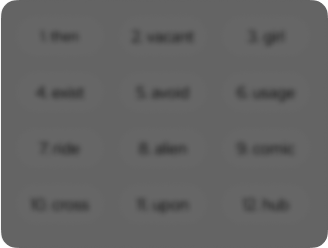
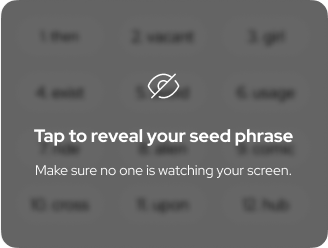
added seedphrase blue toggle to reveal seed phrase screen

Changed region(s): [[0.0915, 0.5081, 0.9146, 0.5927], [0.0915, 0.6492, 0.8841, 0.7339], [0.4268, 0.2823, 0.5488, 0.3952]]

diff --git a/src/screens/onboarding/RevealSeedPhrase.js b/src/screens/onboarding/RevealSeedPhrase.js
@@ -1,6 +1,7 @@
 /* eslint-disable react-native/no-inline-styles */
-import React from 'react';
-import { View } from 'react-native';
+import React, { useState } from 'react';
+import { Image, View, StyleSheet } from 'react-native';
+import { TouchableOpacity } from 'react-native-gesture-handler';
 import AppButton from '../../components/AppButton';
 import AppText from '../../components/AppText';
 import SeedPhraseWraper from '../../components/onboarding/SeedPhraseWraper';
@@ -8,6 +9,11 @@ import OnboardingProgress from '../../components/OnboardingProgress';
 import Screen from '../../components/Screen';
 
 export default function RevealSeedPhrase({ navigation }) {
+  const [visible, setVisible] = useState(false);
+
+  const toggleVisibility = () => {
+    setVisible(!visible);
+  };
   return (
     <Screen>
       <View style={{ flex: 1 }}>
@@ -23,7 +29,13 @@ export default function RevealSeedPhrase({ navigation }) {
       </View>
 
       <View style={{ flex: 2 }}>
-        <SeedPhraseWraper isInit={true} />
+        {visible ? (
+          <SeedPhraseWraper isInit={true} />
+        ) : (
+          <TouchableOpacity onPress={toggleVisibility}>
+            <Image source={require('../../../assets/seedphrase.png')} style={styles.image} />
+          </TouchableOpacity>
+        )}
       </View>
       <View style={{ flex: 1, flexDirection: 'column', justifyContent: 'flex-end', marginVertical: 10 }}>
         <AppButton title="Continue" onPress={() => navigation.navigate('confirmSeedPhrase')} />
@@ -31,3 +43,9 @@ export default function RevealSeedPhrase({ navigation }) {
     </Screen>
   );
 }
+
+const styles = StyleSheet.create({
+  image: {
+    alignSelf: 'center'
+  }
+});
